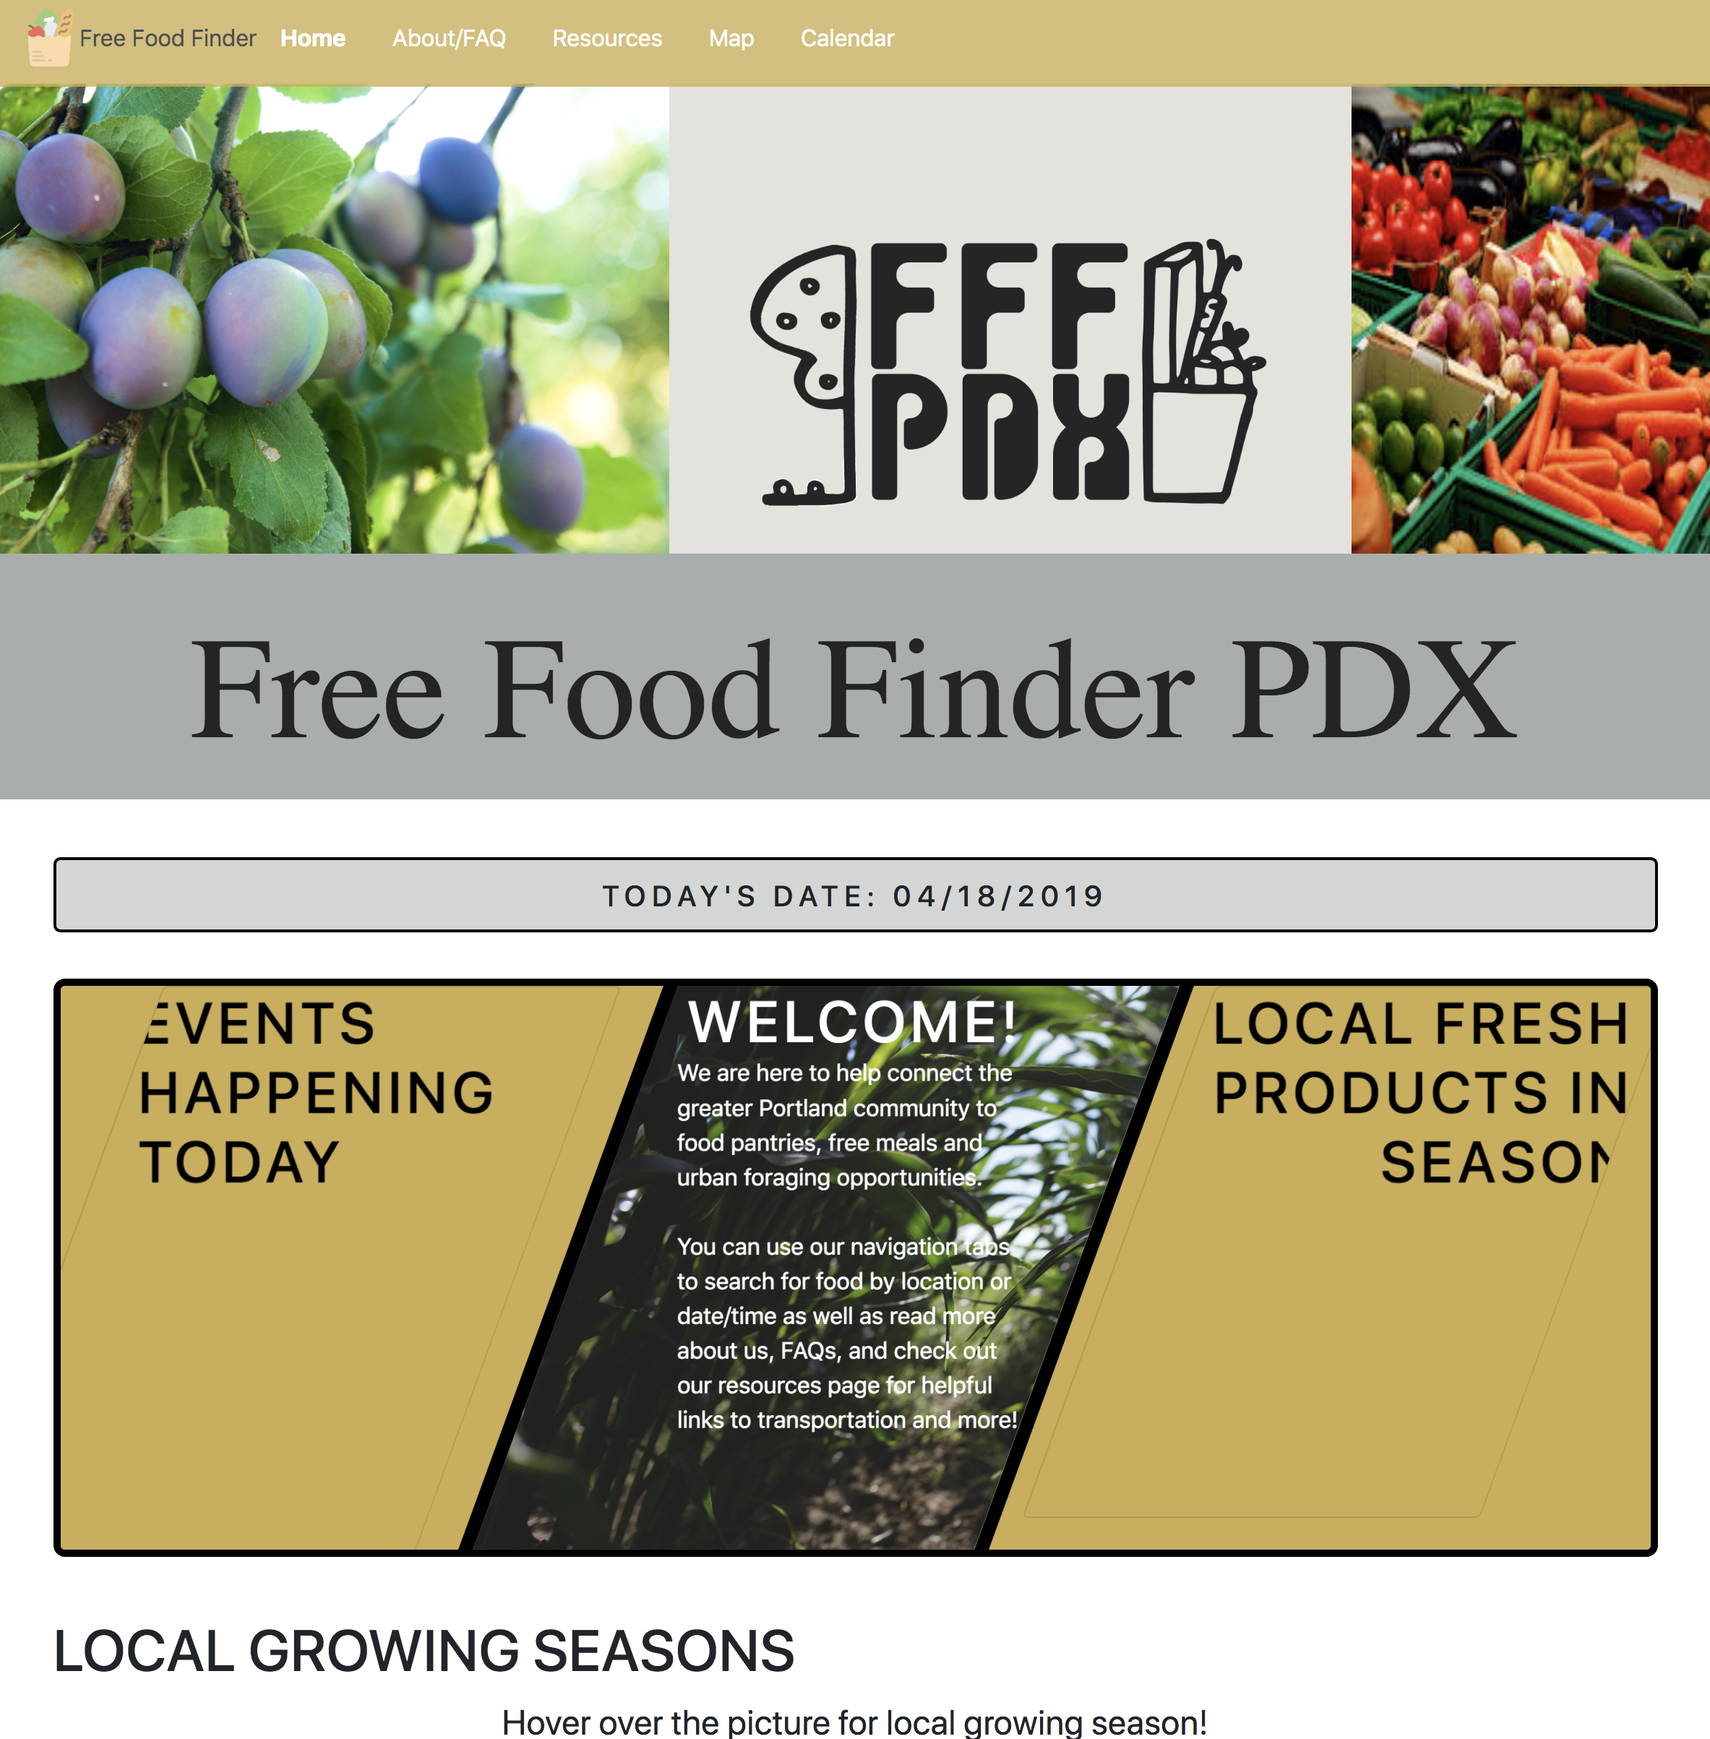
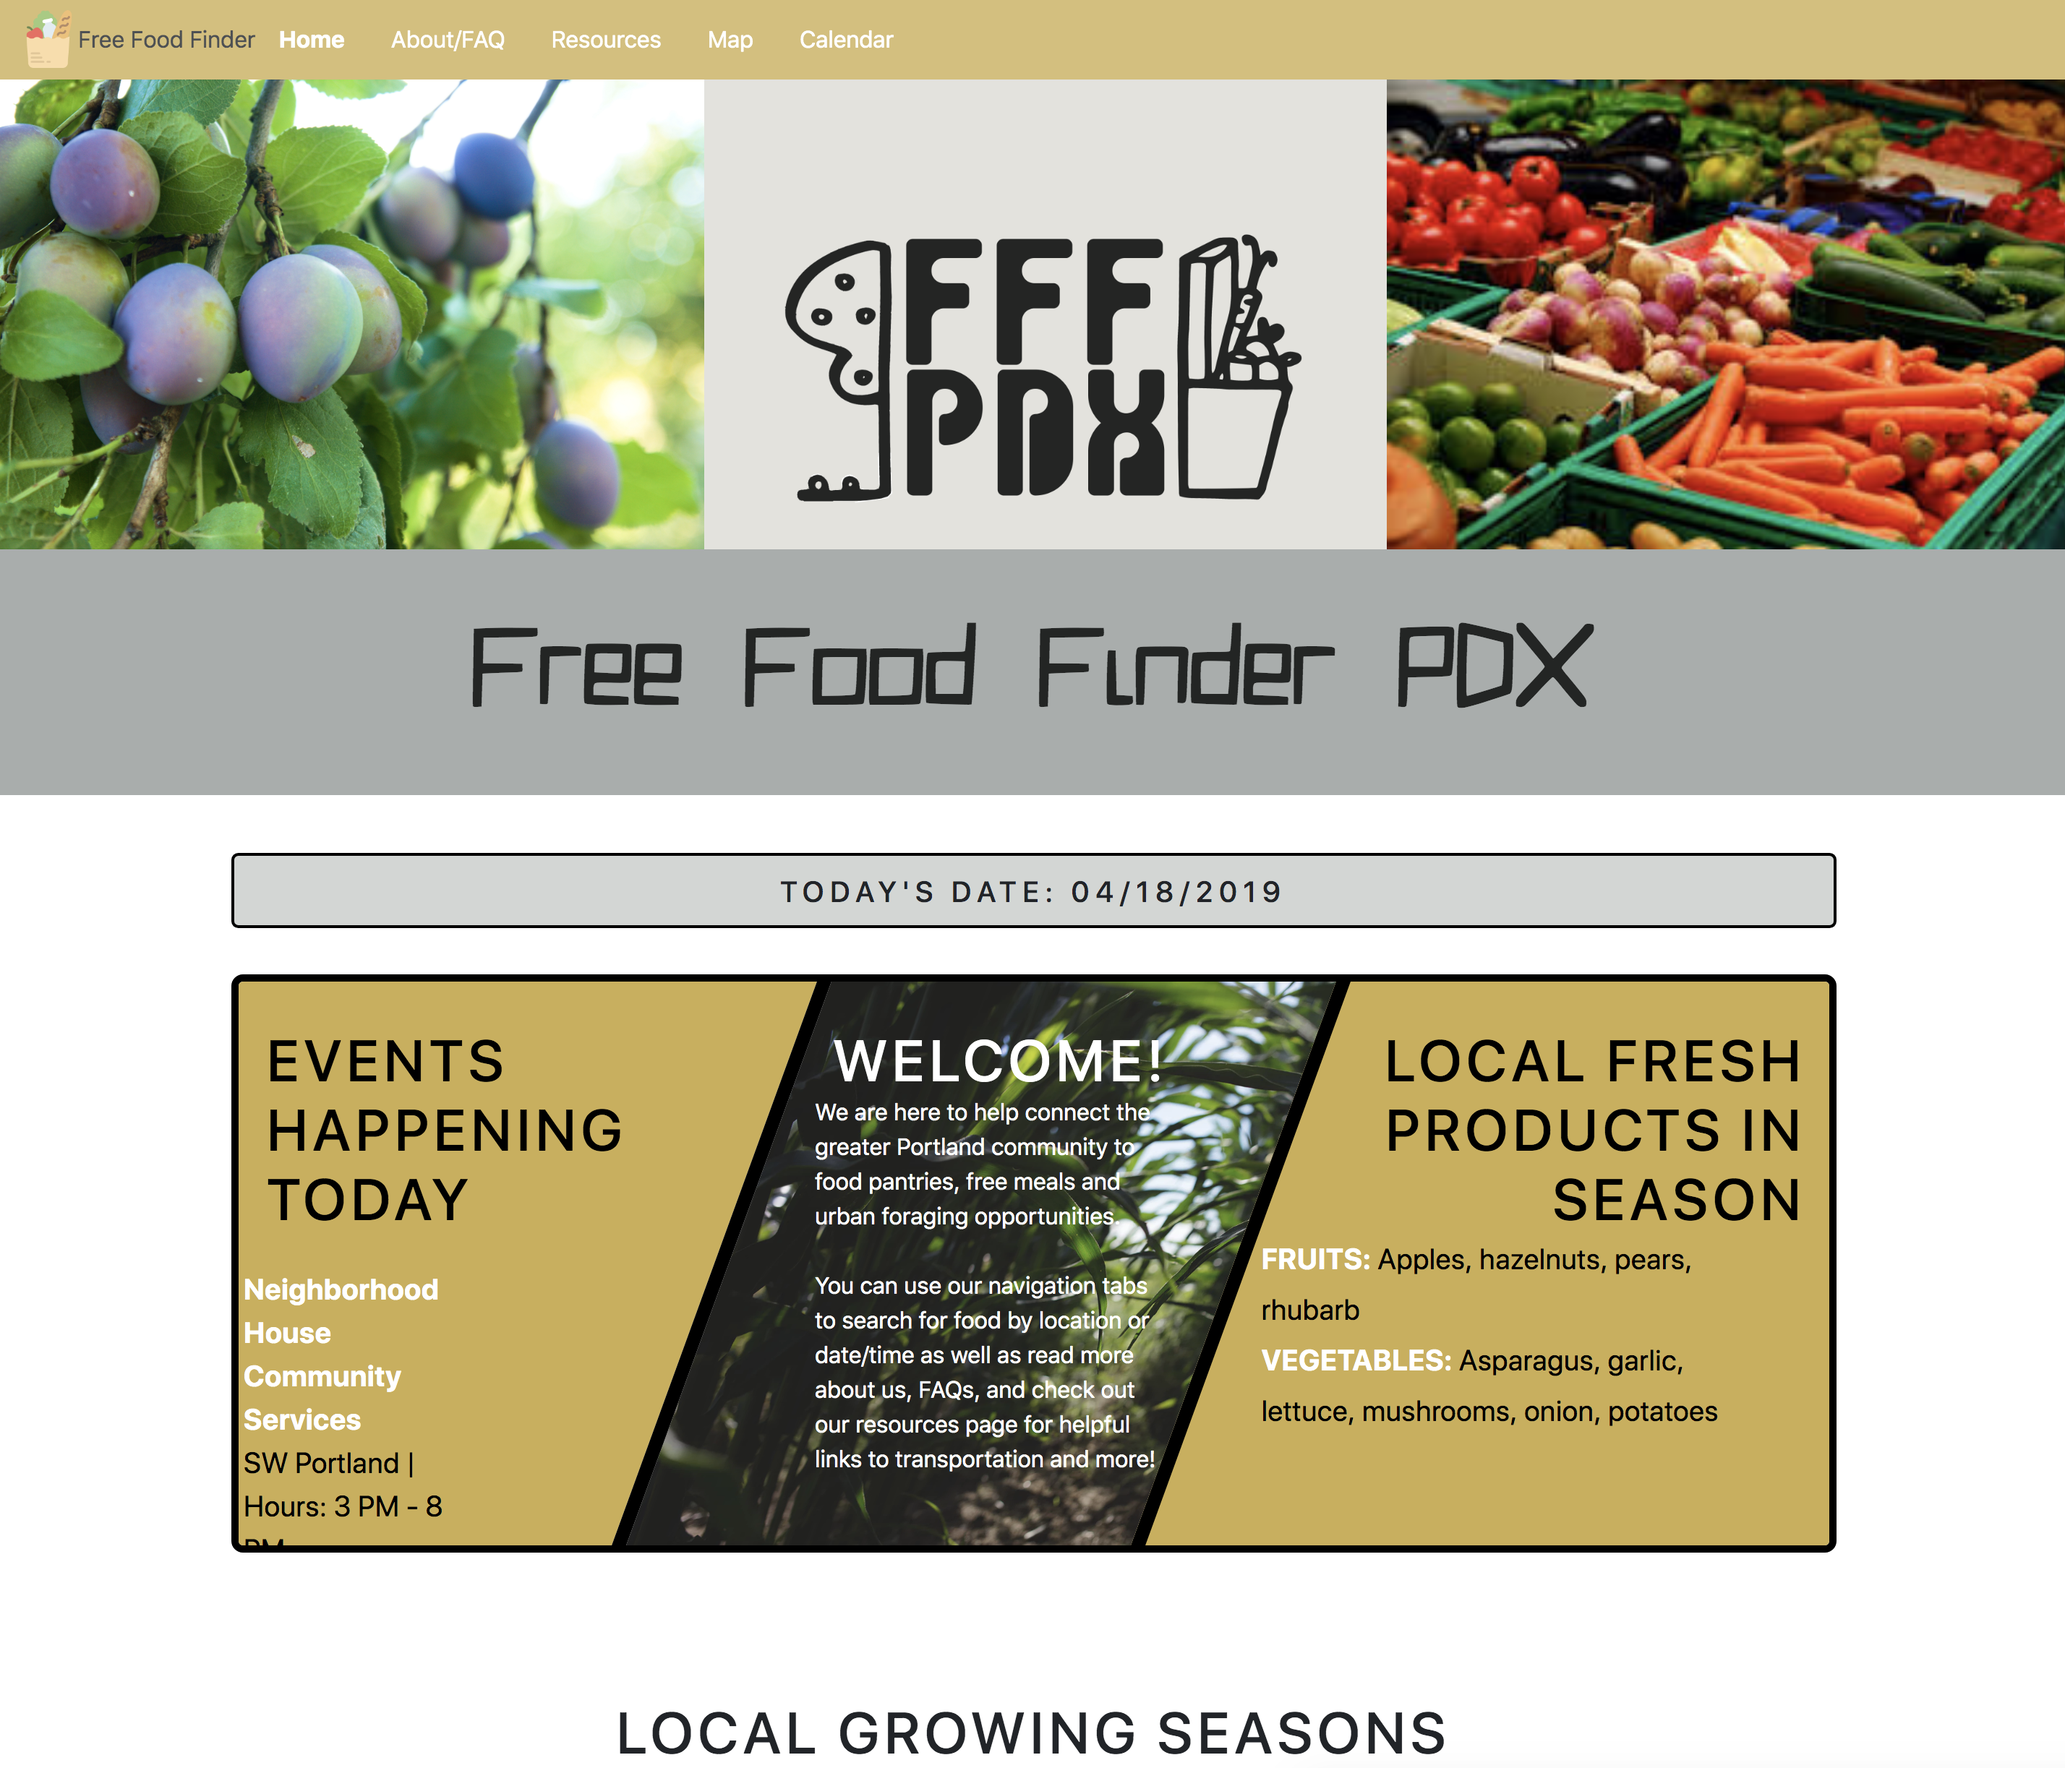
add final changes to all files

diff --git a/css/aboutstyles.css b/css/aboutstyles.css
@@ -13,6 +13,7 @@
   padding-top: 2px;
   margin-bottom: 2px;
   opacity: 0.8;
+  z-index: 50;
 }
 
 #indexNav a {
@@ -76,6 +77,7 @@
   margin-right: 0px;
   font-size: 20px;
   font-style: italic;
+  margin-top: 40px;
 }
 
 .mission h1 {
@@ -98,12 +100,6 @@
 .contact p {
   text-align: right;
   margin-left: 300px;
-}
-
-a:hover{
-  color: blue;
-  font-weight: bold;
-  text-decoration: none;
 }
 
 .item {
@@ -139,68 +135,13 @@ a:hover {
   font-weight: bold;
   text-transform: uppercase;
   letter-spacing: 2px;
-  color: #FFFFFF;
+  color: ##CDAF50;
 }
 
 a {
-  color: #FFFFFF;
+  color: #CDAF50;
   text-decoration: none;
 }
-
-/* collapsible start -----------> */
-/*
-.questions {
-  margin-top: 0%;
-  margin-bottom: 100px;
-}
-
-
-
-#FAQ h1{
-  letter-spacing: 3px;
-  text-align: center;
-}
-
-.collapsible {
-  background-color: #777;
-  color: white;
-  cursor: pointer;
-  padding: 18px;
-  width: 100%;
-  border: none;
-  text-align: left;
-  outline: none;
-  font-size: 15px;
-  border-radius: 5px;
-  margin-top: 5px;
-}
-
-.active, .collapsible:hover {
-  color: #ffd454;
-}
-
-.collapsible:after {
-  content: '\002B';
-  color: white;
-  font-weight: bold;
-  float: right;
-  margin-left: 5px;
-}
-
-.active:after {
-  content: "\2212";
-} */
-
-/* .content {
-  padding: 0 18px;
-  max-height: 0;
-  overflow: hidden;
-  transition: max-height 0.1s ease-out;
-  background-color: #f1f1f1;
-  padding-top: 5px;
-} */
-
-/* collapsible end -----> */
 
 .questions {
   margin-top: 0%;
@@ -219,7 +160,7 @@ a {
 
 .card {
   border: 0px;
-  margin-bottom: 5px;
+  /* margin-bottom: 5px; */
 }
 
 .front h3 {
@@ -228,6 +169,9 @@ a {
 
 }
 
+.back li {
+  font-size: 15px;
+}
 
 /* flip end ------------------> */
 
@@ -267,7 +211,7 @@ a {
   font-family: quirkyRobot;
   font-size: 100px;
   float: right;
-  padding-top: 8%;
+  padding-top: 15%;
 }
 
 #headerLogo {

diff --git a/about-FAQ.html b/about-FAQ.html
@@ -55,7 +55,7 @@
       <div class="about">
         <div class="item">
           <h1>ABOUT</h1>
-            Welcome! Please use the menu bar to navigate between our website pages - it located at the top of every page. To locate free food sources near you, click the "Map" link to search by location, or the "Calendar" link to search by date. Both our "Map" and "Calendar" pages have helpful tips to get started. If you are not finding what you need, use the menu bar to navigate to the "Resources" page, where we detail further community resources for free-food, transportation, and support services. Enjoy!
+            <p>Welcome! Please use the menu bar to navigate between our website pages - it located at the top of every page. To locate free food sources near you, click the "Map" link to search by location, or the "Calendar" link to search by date. Both our "Map" and "Calendar" pages have helpful tips to get started. If you are not finding what you need, use the menu bar to navigate to the "Resources" page, where we detail further community resources for free-food, transportation, and support services. Enjoy!</p>
         </div>
       </div>
 

diff --git a/css/calendar.css b/css/calendar.css
@@ -63,10 +63,10 @@
 #indexNav a:hover {
   color: #000000;
   font-weight: bold;
+  text-transform: uppercase;
 }
 
 /* nav bar css end ---------> */
-
 /* beginning circles */
 .infoBubbles {
   margin-top: 40px;
@@ -231,7 +231,7 @@
   color: orange;
   margin-right: 5px;
   border-radius: 15%;
-} 
+}
 
 #calendar {
   display: flex;

diff --git a/css/searchByLocation.css b/css/searchByLocation.css
@@ -1,5 +1,4 @@
-/* nav bar css ----------->  */
-
+/* nav bar css -----------> */
 
 #indexNav {
   overflow: hidden;
@@ -13,6 +12,7 @@
   padding-top: 2px;
   margin-bottom: 2px;
   opacity: 0.8;
+  z-index: 50;
 }
 
 #indexNav a {

diff --git a/css/indexstyles.css b/css/indexstyles.css
@@ -17,7 +17,7 @@ body {
   position: fixed;
   top: 0;
   width: 100%;
-  margin: 0 0 0 0;
+  margin: 0 0 0 0
   padding-bottom: 2px;
   padding-top: 2px;
   margin-bottom: 2px;

diff --git a/css/resources.css b/css/resources.css
@@ -40,8 +40,6 @@ background {
   font-weight: bold;
 }
 
-
-
 /* nav bar css end ---------> */
 
 h1 {

diff --git a/README.md b/README.md
@@ -18,7 +18,7 @@ _We are not the only food locator out there, but we are proud of the dynamic way
 ## Specs - "Landing Page" - index.html
 
 <p  align="center">
-  .png" alt="image of homePage" height="80%" width="80%">
+  <img src="img/homepage.png" alt="image of homepage" height="80%" width="80%">
 </p>
 
 | Behavior | Input | Output |
